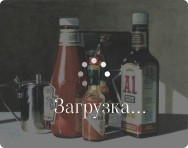
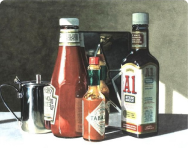
fixed_errors

diff --git a/index.html b/index.html
@@ -47,9 +47,10 @@
                 <div class="images_block">
                     <!-- image_item -->
                     <div class="image_item">
-                        <div class="img">
+                        <div class="img ">
                             <img src="./assets/images/load_image1.png" alt="">
                             <img src="./assets/images/icons/close_icon.svg" alt="" class="close">
+
                         </div>
                         <p class="img_name">картина1.png</p>
                         <p class="img_size">15 мб</p>
@@ -92,27 +93,39 @@
                     </div>
                     <!-- image_item -->
                     <div class="image_item">
-                        <div class="img">
+                        <div class="img loading">
                             <img src="./assets/images/load_image6.png" alt="">
                             <img src="./assets/images/icons/close_icon.svg" alt="" class="close">
+                            <div class="loader_icon">
+                                <img src="./assets/images/loading_icon.png" class="loader" alt="">
+                                <p>Загрузка...</p>
+                            </div>
                         </div>
                         <p class="img_name">картина1.png</p>
                         <p class="img_size">15 мб</p>
                     </div>
                     <!-- image_item -->
                     <div class="image_item">
-                        <div class="img">
+                        <div class="img loading">
                             <img src="./assets/images/load_image7.png" alt="">
                             <img src="./assets/images/icons/close_icon.svg" alt="" class="close">
+                            <div class="loader_icon">
+                                <img src="./assets/images/loading_icon.png" class="loader" alt="">
+                                <p>Загрузка...</p>
+                            </div>
                         </div>
                         <p class="img_name">картина1.png</p>
                         <p class="img_size">15 мб</p>
                     </div>
                     <!-- image_item -->
                     <div class="image_item">
-                        <div class="img">
+                        <div class="img loading">
                             <img src="./assets/images/load_image8.png" alt="">
                             <img src="./assets/images/icons/close_icon.svg" alt="" class="close">
+                            <div class="loader_icon">
+                                <img src="./assets/images/loading_icon.png" class="loader" alt="">
+                                <p>Загрузка...</p>
+                            </div>
                         </div>
                         <p class="img_name">картина1.png</p>
                         <p class="img_size">15 мб</p>

diff --git a/assets/css/main.css b/assets/css/main.css
@@ -92,7 +92,7 @@ body {
 .img {
   position: relative;
 }
-.img img:first-child {
+.img > img:first-child {
   width: 100%;
 }
 .img .close {
@@ -101,6 +101,39 @@ body {
   right: 9px;
   z-index: 4;
   cursor: pointer;
+}
+.img .loader_icon {
+  display: none;
+}
+.img.loading {
+  position: relative;
+}
+.img.loading::after {
+  content: "";
+  width: 100%;
+  height: 96%;
+  border-radius: 5px;
+  position: absolute;
+  top: 0;
+  left: 0;
+  background: rgba(42, 42, 42, 0.62);
+}
+.img.loading .loader_icon {
+  display: block;
+  position: absolute;
+  bottom: 28px;
+  left: 0px;
+  right: 0;
+  z-index: 4;
+  text-align: center;
+}
+.img.loading .loader_icon p {
+  color: #fff;
+  font-size: 20px;
+  font-style: normal;
+  font-weight: 400;
+  line-height: normal;
+  letter-spacing: 0.4px;
 }
 
 .image_buttons {
@@ -222,6 +255,7 @@ body {
   font-weight: 400;
   line-height: normal;
   margin-bottom: 55px;
+  text-align: center;
 }
 .registration .register_form {
   display: flex;
@@ -329,6 +363,12 @@ body {
   padding: 0;
   gap: 30px 45px;
 }
+.history .images_block#history_images .img img:first-child {
+  height: 180px;
+}
+.history .images_block#history_images .img img:last-child {
+  width: 20px;
+}
 .history .images_block#history_images .image_item {
   width: 20%;
 }
@@ -365,15 +405,27 @@ body {
   .registration .register_right {
     width: 70%;
   }
+  .images_block {
+    gap: 17px 30px;
+  }
+  .image_item {
+    width: 22%;
+  }
 }
 @media (max-width: 1200px) {
   .container {
     max-width: 960px;
   }
+  .image_item {
+    width: 29%;
+  }
 }
 @media (max-width: 992px) {
   .container {
     max-width: 720px;
+  }
+  .history .images_block#history_images .image_item {
+    width: 29%;
   }
   .header .header_menus li a {
     font-size: 20px;
@@ -433,6 +485,12 @@ body {
   .container {
     max-width: 540px;
   }
+  .img.loading .loader_icon p {
+    font-size: 16px;
+  }
+  .img.loading .loader_icon {
+    bottom: 15px;
+  }
   .art_images .images_block {
     gap: 10px 20px;
   }
@@ -456,8 +514,17 @@ body {
     max-width: 100%;
     padding: 0 20px;
   }
+  .history {
+    margin-bottom: 20px;
+  }
+  .history .images_block#history_images .img img:last-child {
+    width: 17px;
+  }
   .history .images_block#history_images .img_name {
     font-size: 16px;
+  }
+  .history .images_block#history_images .img img:first-child {
+    height: 130px;
   }
   .header .header_block {
     padding: 10px 0;

diff --git a/assets/scss/_media.scss b/assets/scss/_media.scss
@@ -18,21 +18,34 @@
 	.registration .registr_block {
 		flex-direction: column;
 	}
+
 	.registration .register_left {
 		width: 100%;
 	}
 	.registration .register_right {
 		width: 70%;
 	}
+	.images_block {
+		gap: 17px 30px;
+	}
+	.image_item {
+		width: 22%;
+	}
 }
 @media (max-width: 1200px) {
 	.container {
 		max-width: 960px;
 	}
+	.image_item {
+		width: 29%;
+	}
 }
 @media (max-width: 992px) {
 	.container {
 		max-width: 720px;
+	}
+	.history .images_block#history_images .image_item {
+		width: 29%;
 	}
 	.header .header_menus li a {
 		font-size: 20px;
@@ -92,6 +105,12 @@
 	.container {
 		max-width: 540px;
 	}
+	.img.loading .loader_icon p {
+		font-size: 16px;
+	}
+	.img.loading .loader_icon {
+		bottom: 15px;
+	}
 	.art_images .images_block {
 		gap: 10px 20px;
 	}
@@ -115,8 +134,17 @@
 		max-width: 100%;
 		padding: 0 20px;
 	}
+	.history {
+		margin-bottom: 20px;
+	}
+	.history .images_block#history_images .img img:last-child {
+		width: 17px;
+	}
 	.history .images_block#history_images .img_name {
 		font-size: 16px;
+	}
+	.history .images_block#history_images .img img:first-child {
+		height: 130px;
 	}
 	.header .header_block {
 		padding: 10px 0;

diff --git a/assets/scss/_index.scss b/assets/scss/_index.scss
@@ -64,7 +64,7 @@
 }
 .img {
 	position: relative;
-	img:first-child {
+	& > img:first-child {
 		width: 100%;
 	}
 	.close {
@@ -73,6 +73,39 @@
 		right: 9px;
 		z-index: 4;
 		cursor: pointer;
+	}
+	.loader_icon {
+		display: none;
+	}
+	&.loading {
+		position: relative;
+		&::after {
+			content: "";
+			width: 100%;
+			height: 96%;
+			border-radius: 5px;
+			position: absolute;
+			top: 0;
+			left: 0;
+			background: rgba(42, 42, 42, 0.62);
+		}
+		.loader_icon {
+			display: block;
+			position: absolute;
+			bottom: 28px;
+			left: 0px;
+			right: 0;
+			z-index: 4;
+			text-align: center;
+			p {
+				color: #fff;
+				font-size: 20px;
+				font-style: normal;
+				font-weight: 400;
+				line-height: normal;
+				letter-spacing: 0.4px;
+			}
+		}
 	}
 }
 .image_buttons {

diff --git a/assets/scss/_history.scss b/assets/scss/_history.scss
@@ -40,6 +40,12 @@
 		max-width: 100%;
 		padding: 0;
 		gap: 30px 45px;
+		.img img:first-child {
+			height: 180px;
+		}
+		.img img:last-child {
+			width: 20px;
+		}
 		.image_item {
 			width: 20%;
 		}

diff --git a/history.html b/history.html
@@ -19,7 +19,6 @@
 <body>
 
     <div class="wrapper">
-
         <!-- header -->
         <header class="header" id="header">
             <div class="container">

diff --git a/assets/scss/_registration.scss b/assets/scss/_registration.scss
@@ -62,6 +62,7 @@
 		font-weight: 400;
 		line-height: normal;
 		margin-bottom: 55px;
+		text-align: center;
 	}
 	.register_form {
 		display: flex;
